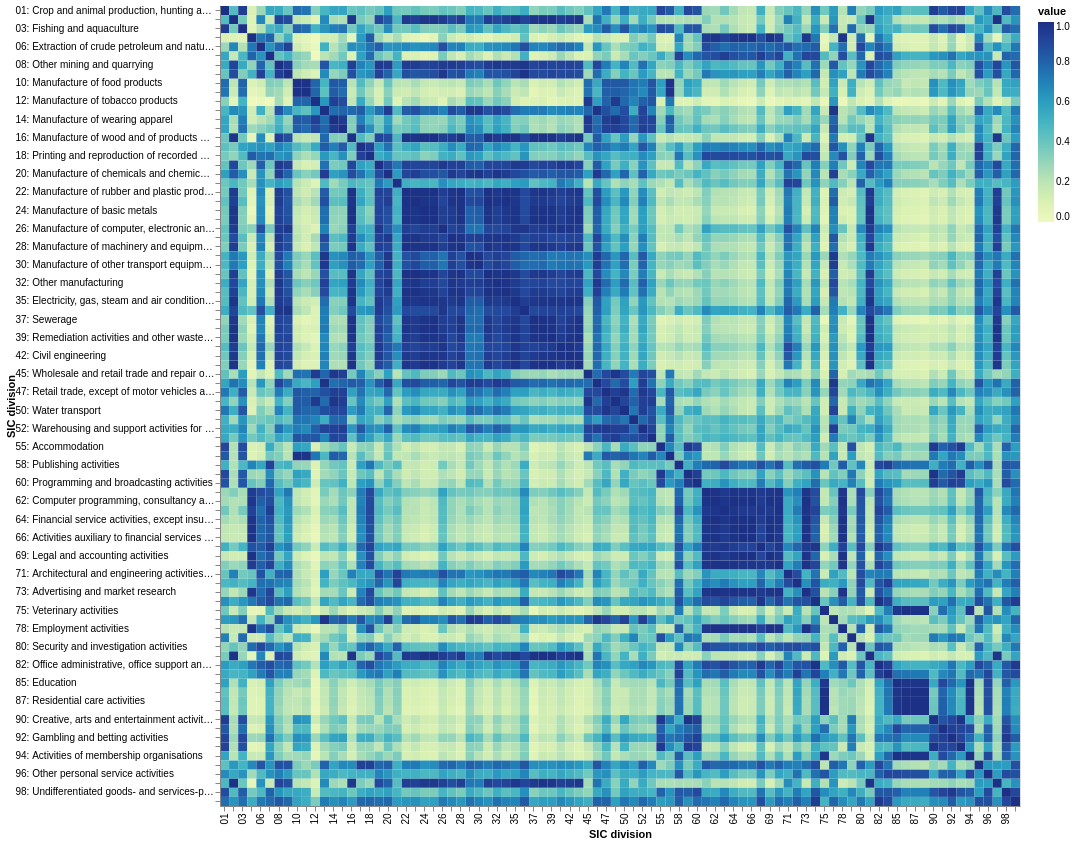
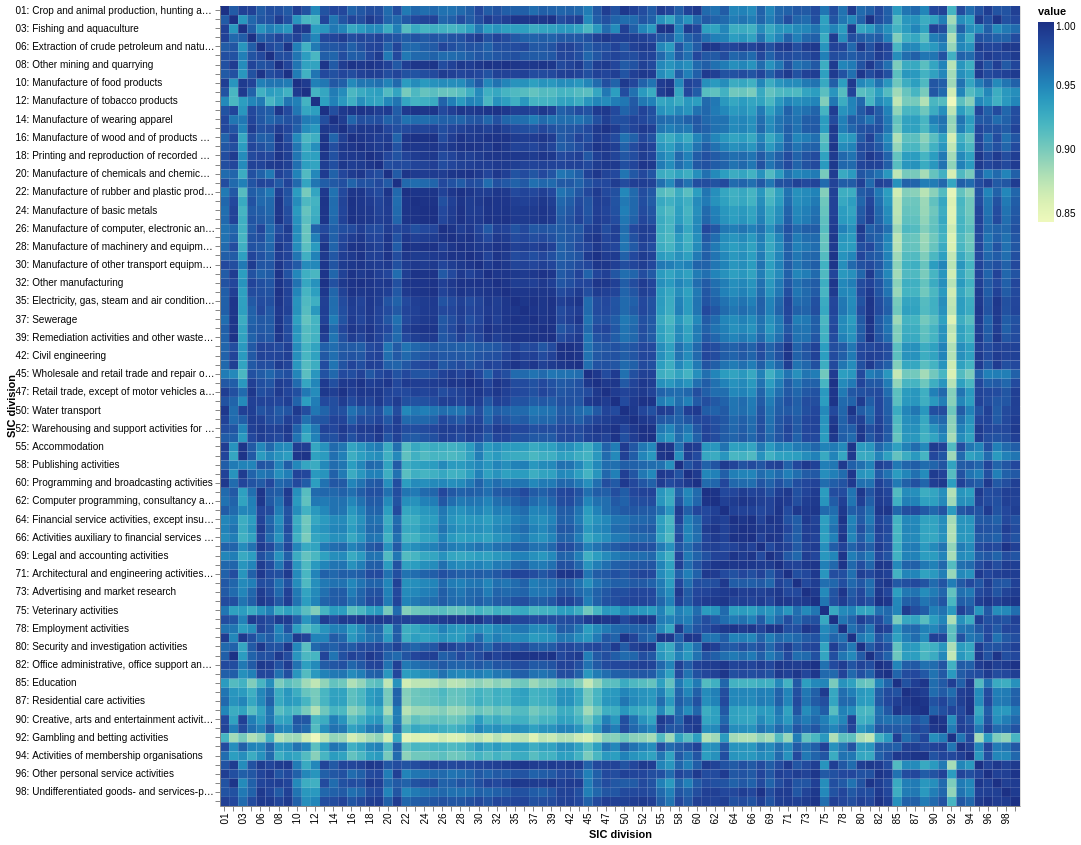
Reran analysis

diff --git a/industrial_taxonomy/scripts/topsbm_sector_similarity.py b/industrial_taxonomy/scripts/topsbm_sector_similarity.py
@@ -84,7 +84,7 @@ if __name__ == "__main__":
     alt.data_transformers.disable_max_rows()
     group_topsbm_by_sector = group_topsbm_by_sector_(cluster_type="document")
 
-    model_levels = [1]
+    model_levels = [0, 1, 2]
     SIC_level = 2
     sector = get_glass_SIC_sectors()
     model = get_topsbm()
